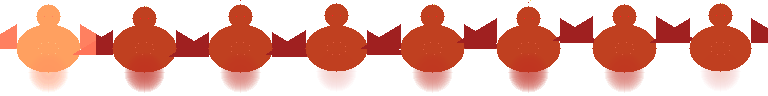
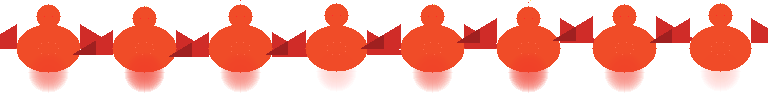
fix: PR 리뷰 반영 — boss rage tint 좌표 + arc impact flash 타이밍
P1: applyColorTint가 ctx.translate()를 무시하여 프레임 0 영역에만
tint 적용되던 문제. offset 파라미터 추가하여 절대 좌표로 수정.
P2: arc 발사체에서 돌이 비행 중인데 타겟에 임팩트 플래시가
먼저 뜨던 문제. beam 스타일에서만 flash 표시하도록 가드.

diff --git a/scripts/generate-assets/generate-units.ts b/scripts/generate-assets/generate-units.ts
@@ -480,13 +480,10 @@ function drawBossFrame(ctx: import('@napi-rs/canvas').SKRSContext2D, size: numbe
     setPixel(ctx, Math.round(cx + scale), Math.round(cy - bodyH - 7 * scale - bDist + headBob), PALETTE.gold);
   }
 
-  if (rage) {
-    applyColorTint(ctx, size, size, PALETTE.fireRed, 0.25);
-  }
 }
 
-function applyColorTint(ctx: import('@napi-rs/canvas').SKRSContext2D, w: number, h: number, color: string, alpha: number): void {
-  const imageData = ctx.getImageData(0, 0, w, h);
+function applyColorTint(ctx: import('@napi-rs/canvas').SKRSContext2D, w: number, h: number, color: string, alpha: number, offsetX: number = 0, offsetY: number = 0): void {
+  const imageData = ctx.getImageData(offsetX, offsetY, w, h);
   const r = parseInt(color.slice(1, 3), 16);
   const g = parseInt(color.slice(3, 5), 16);
   const b = parseInt(color.slice(5, 7), 16);
@@ -498,7 +495,7 @@ function applyColorTint(ctx: import('@napi-rs/canvas').SKRSContext2D, w: number,
       imageData.data[i + 2] = Math.min(255, imageData.data[i + 2] + Math.floor(b * alpha));
     }
   }
-  ctx.putImageData(imageData, 0, 0);
+  ctx.putImageData(imageData, offsetX, offsetY);
 }
 
 const DRAW_FNS: Record<string, (ctx: ReturnType<typeof makeCanvas>['ctx'], ox: number, frame: number) => void> = {
@@ -653,6 +650,8 @@ export async function generate(): Promise<ManifestEntry[]> {
       ctx.translate(ox, 0);
       drawBossFrame(ctx, BOSS_SIZE, f, true);
       ctx.restore();
+      // Apply rage tint per-frame at absolute coordinates (getImageData ignores translate)
+      applyColorTint(ctx, BOSS_SIZE, BOSS_SIZE, PALETTE.fireRed, 0.25, ox, 0);
     }
     saveCanvas(canvas, `${OUTPUT_DIR}/titan-boss-rage.png`);
     entries.push({

diff --git a/packages/phaser-game/src/systems/TowerSystem.ts b/packages/phaser-game/src/systems/TowerSystem.ts
@@ -493,7 +493,7 @@ export class TowerSystem {
 				this.attackGraphics.strokePath();
 			}
 
-			if (line.ttl > 50) {
+			if (line.style !== 'arc' && line.ttl > 50) {
 				this.attackGraphics.fillStyle(0xffffff, alpha * 0.6);
 				this.attackGraphics.fillCircle(line.x2, line.y2, 4);
 			}
